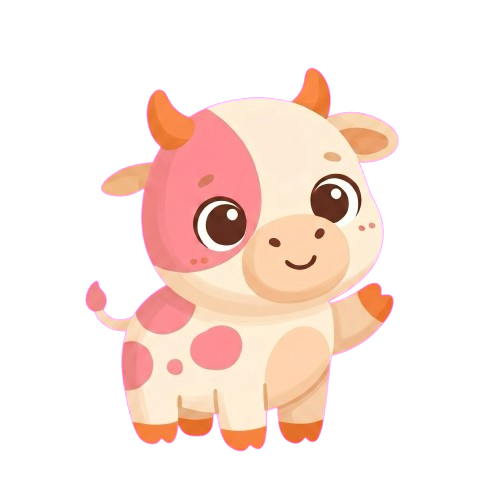
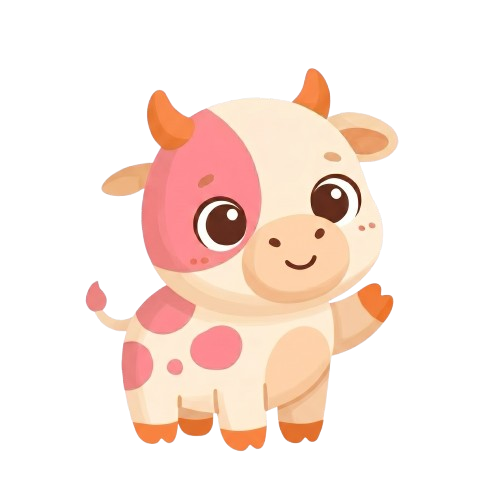
fix(art): replace cow + flip prompts from magenta to "transparent"
The magenta chroma-key approach left a thin halo at character edges
(semi-magenta anti-aliased pixels survived even the 130-distance
threshold + 1px erosion). Found a better workaround: asking Gemini for
a "transparent background" makes it paint the standard grey/white
checkerboard pattern that image editors use to indicate transparency.
remove.bg's subject-detection AI strips that checker pattern cleanly
with zero colour bleed at edges — much better than chroma-keying a
flat colour.

Changes:
- art/style-bible/transparent/animal_cow.png — new cow generated with
  "transparent bg" prompt, then run through remove.bg. Clean
  silhouette, no halo, no sparkle, four legs, family-style.
- master-prompt.md / assets.json / art_gen.py — sprite prompts now
  request "transparent (checker pattern) background" instead of
  "flat magenta". Same post-processing workflow (remove.bg) handles
  it. Documented the trick: Gemini can't actually output alpha, but
  the checker-pattern proxy is what works.
- assets/images/games/zoo/animal_cow.png — re-bundled from the new
  transparent source.

diff --git a/scripts/art_gen.py b/scripts/art_gen.py
@@ -40,30 +40,29 @@ ASSETS_JSON = STYLE_BIBLE / "assets.json"
 # the two in sync; this script reads from the constant for reliability.
 STYLE_FRAGMENT = (
     "Illustration style: chunky kindchenschema cartoon character on a "
-    "pure flat magenta chroma-key background. The character has an "
-    "oversized round head, big round eyes with a small white catchlight "
-    "in each eye, a tiny rounded snout/nose, and a chunky compact body "
-    "with short limbs — no realistic anatomy. The character has NO "
-    "outlines and NO black ink lines anywhere on its body; form is built "
-    "from clean flat shapes with gentle inner shading. Reference "
-    "exemplars: Sago Mini, Hey Duggee, Toca Boca. Mood: warm, calm, "
-    "friendly, safe for a 2-year-old. Square aspect ratio, 2048x2048, "
-    "centered subject filling about 70% of the frame, generous negative "
-    "space around the character. No text, no decorative lettering, no "
-    "logos.\n\n"
-    "Background: a single pure flat magenta #ff00ff tone (chroma-key "
-    "colour) — NO watercolor, NO gradient, NO atmospheric wash, NO sky "
-    "or meadow. The character must appear isolated on flat magenta so "
-    "the background can be cleanly removed later. NO baked-in drop "
-    "shadow beneath the character (shadows are added programmatically "
-    "in the app).\n\n"
+    "transparent background. The character has an oversized round head, "
+    "big round eyes with a small white catchlight in each eye, a tiny "
+    "rounded snout/nose, and a chunky compact body with short limbs — "
+    "no realistic anatomy. The character has NO outlines and NO black "
+    "ink lines anywhere on its body; form is built from clean flat "
+    "shapes with gentle inner shading. Reference exemplars: Sago Mini, "
+    "Hey Duggee, Toca Boca. Mood: warm, calm, friendly, safe for a "
+    "2-year-old. Square aspect ratio, 2048x2048, centered subject "
+    "filling about 70% of the frame, generous negative space around the "
+    "character. No text, no decorative lettering, no logos.\n\n"
+    "Background: TRANSPARENT — show the standard grey-and-white "
+    "checkerboard pattern that image editors use to indicate "
+    "transparency. NO solid colour, NO watercolor, NO gradient, NO "
+    "atmospheric wash, NO sky or meadow. The character must appear "
+    "isolated on the checkerboard so the background can be cleanly "
+    "removed later via remove.bg. NO baked-in drop shadow beneath the "
+    "character (shadows are added programmatically in the app).\n\n"
     "AVOID: photorealism, fur texture detail, black outlines, harsh "
     "contrast, realistic proportions, scary or sharp features, fangs, "
     "wide-open mouths, predator stances, pastel-only low contrast, "
     "decorative text, watercolor backdrops, gradient backgrounds, "
-    "atmospheric washes, drop shadows under the character, magenta "
-    "anywhere ON the character (it is reserved for the background "
-    "only).\n\n"
+    "atmospheric washes, drop shadows under the character, solid-colour "
+    "backgrounds.\n\n"
     "Style reference: match the kindchenschema cartoon style and palette "
     "of the uploaded mascot-fox.png image so this asset reads as part of "
     "the same family.\n\n"

diff --git a/art/style-bible/master-prompt.md b/art/style-bible/master-prompt.md
@@ -10,34 +10,39 @@ This is the canonical text to paste into Nano Banana (Gemini 2.5 Flash Image, vi
 
 Paste this fragment at the **top** of every **sprite** prompt (master fox + every animal + the vehicle). Scenes/backdrops have a different style — see §6.
 
-The background is now **pure flat magenta #ff00ff** (chroma-key green-screen style). Magenta never appears in our art palette, so post-processing strips the background trivially without risk of eating into character interiors. This replaces the old "flat cream #fff5e6" rule, which collided with the cream pixels inside characters (sheep wool, duck belly).
+The background asks for **"transparent"**. Gemini 2.5 Flash Image can't actually produce alpha — instead it paints the standard grey-and-white checker pattern used in image editors to visually represent transparency. That checker pattern is unmistakable to remove.bg's subject-detection AI, which strips it cleanly with no colour bleed at edges (the trick lives in the prompt — see below).
+
+This supersedes the previous "flat magenta" approach, which left a thin semi-magenta halo at character silhouettes (anti-aliased edge pixels were 70-90% magenta and didn't fully chroma-key).
 
 ```
-Illustration style: chunky kindchenschema cartoon character on a pure
-flat magenta chroma-key background. The character has an oversized round
-head, big round eyes with a small white catchlight in each eye, a tiny
-rounded snout/nose, and a chunky compact body with short limbs — no
-realistic anatomy. The character has NO outlines and NO black ink lines
-anywhere on its body; form is built from clean flat shapes with gentle
-inner shading. Reference exemplars: Sago Mini, Hey Duggee, Toca Boca.
-Mood: warm, calm, friendly, safe for a 2-year-old. Square aspect ratio,
+Illustration style: chunky kindchenschema cartoon character on a
+transparent background. The character has an oversized round head, big
+round eyes with a small white catchlight in each eye, a tiny rounded
+snout/nose, and a chunky compact body with short limbs — no realistic
+anatomy. The character has NO outlines and NO black ink lines anywhere
+on its body; form is built from clean flat shapes with gentle inner
+shading. Reference exemplars: Sago Mini, Hey Duggee, Toca Boca. Mood:
+warm, calm, friendly, safe for a 2-year-old. Square aspect ratio,
 2048x2048, centered subject filling about 70% of the frame, generous
 negative space around the character. No text, no decorative lettering,
 no logos.
 
-Background: a single pure flat magenta #ff00ff tone (chroma-key colour)
-— NO watercolor, NO gradient, NO atmospheric wash, NO sky or meadow.
-The character must appear isolated on flat magenta so the background
-can be cleanly removed later. NO baked-in drop shadow beneath the
-character (shadows will be added programmatically in the app).
+Background: TRANSPARENT — show the standard grey-and-white checkerboard
+pattern that image editors use to indicate transparency. NO solid
+colour, NO watercolor, NO gradient, NO atmospheric wash, NO sky or
+meadow. The character must appear isolated on the checkerboard so the
+background can be cleanly removed later. NO baked-in drop shadow
+beneath the character (shadows will be added programmatically in the
+app).
 
 AVOID: photorealism, fur texture detail, black outlines, harsh contrast,
 realistic proportions, scary or sharp features, fangs, wide-open mouths,
 predator stances, pastel-only low contrast, decorative text, watercolor
 backdrops, gradient backgrounds, atmospheric washes, drop shadows under
-the character, magenta anywhere ON the character (it is reserved for
-the background only).
+the character, solid-colour backgrounds.
 ```
+
+**Post-processing:** drag the Gemini output into [remove.bg](https://www.remove.bg) — its subject-detection AI strips the checker pattern with no color bleed at edges. Download the result and drop it into `art/style-bible/transparent/<name>.png`. The `optimize_art.py` script auto-detects pre-transparent inputs and skips chroma-keying entirely.
 
 ---
 
@@ -61,9 +66,9 @@ Colour:
 - Eyes: deep brown #2a2a2a iris with a single small white catchlight
 - Pupils slightly oversized for cuteness
 
-Background: pure flat magenta #ff00ff (chroma-key colour), no
-watercolor, no gradient, no shadow under the fox. The fox itself
-contains NO magenta — magenta is reserved for the background only.
+Background: TRANSPARENT — show the standard grey-and-white checkerboard
+pattern that image editors use to indicate transparency. NO solid
+colour, no watercolor, no gradient, no shadow under the fox.
 ```
 
 **Iteration tips:**
